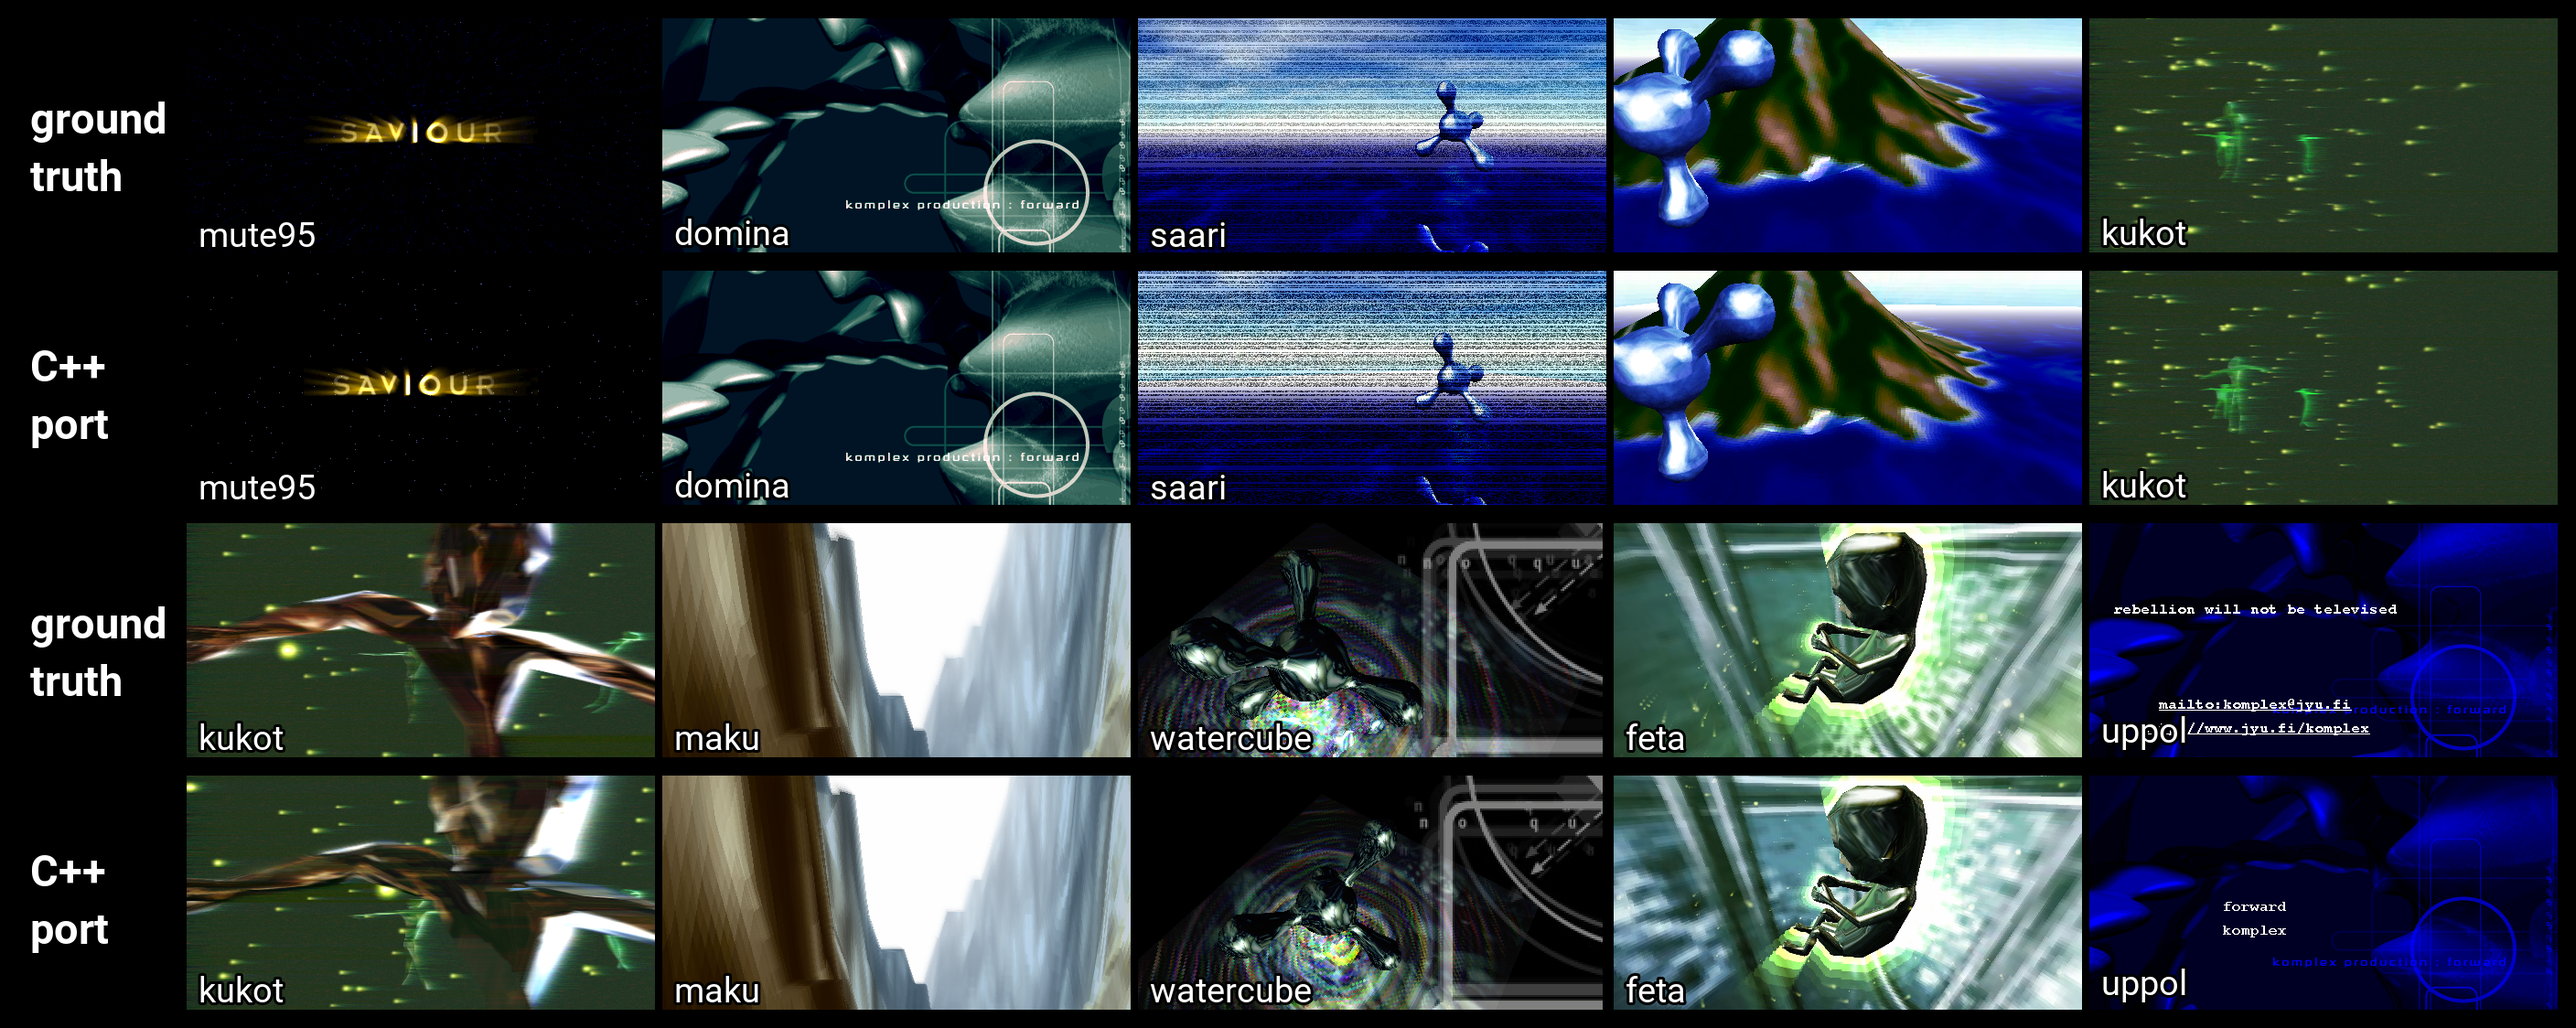
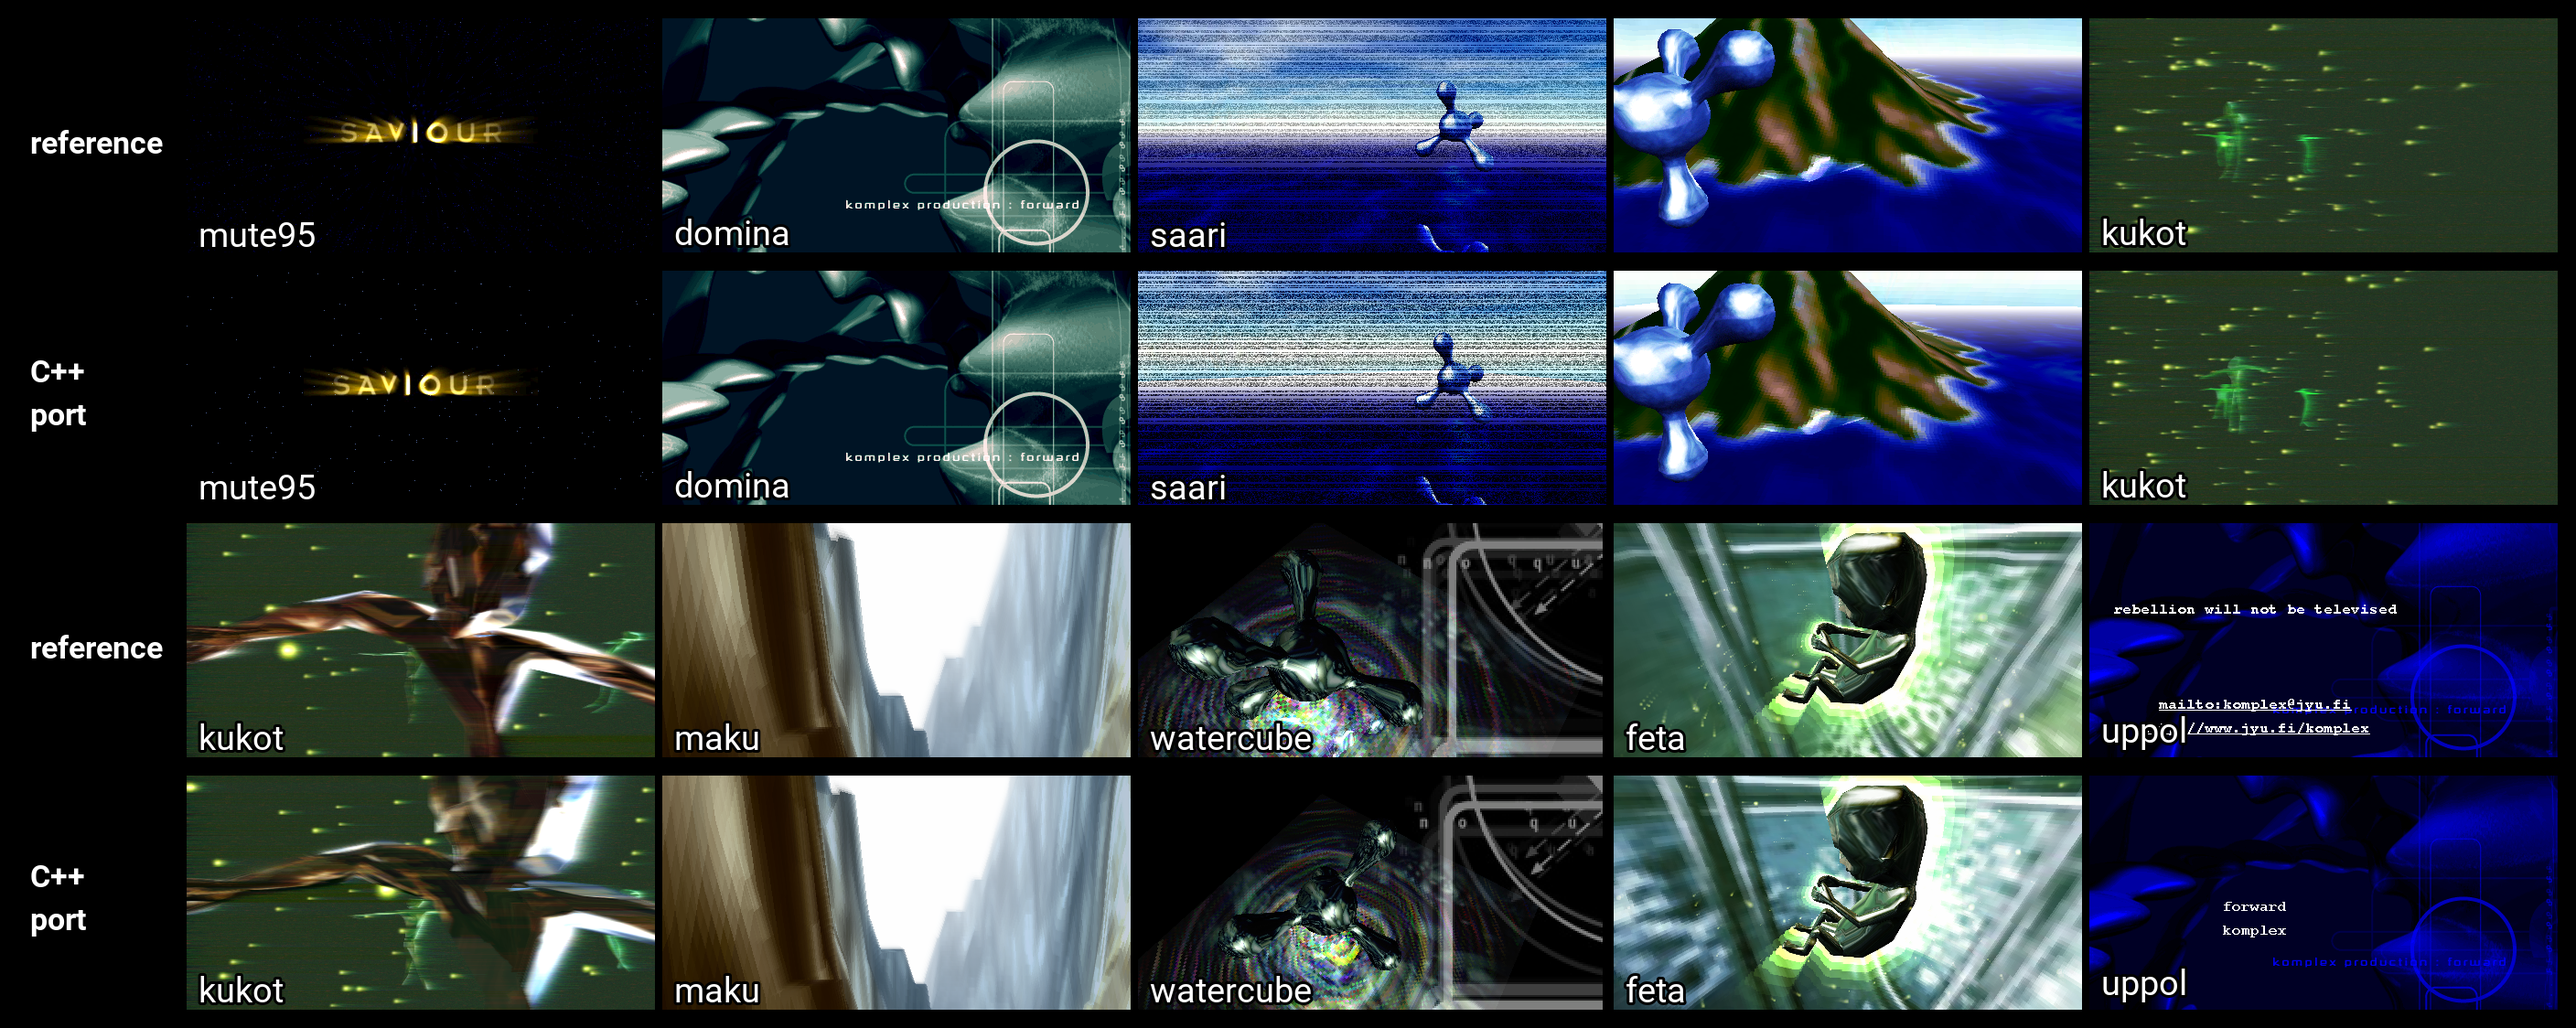
Images for documentation, python scripts update.

diff --git a/documentation/tools/slide_comparisons.py b/documentation/tools/slide_comparisons.py
@@ -1,8 +1,8 @@
-"""Shared four-pair selection for the three slide comparison scripts.
+"""Shared three-pair selection for the three slide comparison scripts.
 
 The selection is visual/editorial, based on the naive-port comparison:
 Saari loses its island, Kukot loses its metallic appearance, Maku becomes
-white, and Feta changes orientation.
+white.
 Keep the same order across all three outputs. C++ uses the nearby Maku
 reference 50 because reference 48 has no corresponding C++ capture.
 """
@@ -15,14 +15,13 @@ from pathlib import Path
 import make_cpp_port_bands as cpp
 import make_java_reconstruction_bands as java
 import make_portage_bands as naive
-from PIL import Image, ImageDraw
+from PIL import Image, ImageDraw, ImageOps
 
 
 SELECTED_KEYS = (
     "28_saari",
     "39_kukot",
     "48_maku",
-    "63_feta",
 )
 CPP_REFERENCE_SUBSTITUTIONS = {"48_maku": "50_maku"}
 OUTPUT_NAMES = {
@@ -38,46 +37,56 @@ PORT_LABELS = {
 
 
 def build_slide(pairs, variant, output, regular_font, bold_font, background, scale):
-    """Four aligned columns, preserving the original 2816:1124 canvas ratio."""
+    """Fill a 3 x 2 grid, preserving the original 2816:1124 canvas ratio.
+
+    Center-crop each capture to fill its cell without distortion. Both images
+    in a comparison use the same crop; only thin gutters remain uncovered.
+    """
     width, height = 2816 * scale, 1124 * scale
-    padding, gap = 24 * scale, 16 * scale
+    gap = 8 * scale
     columns = len(pairs)
-    # Even width preserves the captures' 2:1 aspect ratio exactly.
-    tile_width = 2 * ((width - 2 * padding - (columns - 1) * gap) // (2 * columns))
-    tile_height = tile_width // 2
-    row_width = columns * tile_width + (columns - 1) * gap
-    left = (width - row_width) // 2
-    heading_height, block_gap = 96 * scale, 36 * scale
-    content_height = 2 * (heading_height + tile_height) + block_gap
-    top = (height - content_height) // 2
-    label_margin, label_stroke = 18 * scale, 4 * scale
+    image_width = width - (columns - 1) * gap
+    tile_height = (height - gap) // 2
+    label_margin, label_stroke = 24 * scale, 5 * scale
     canvas = Image.new("RGBA", (width, height), background)
     draw = ImageDraw.Draw(canvas)
     scene_font = naive.fit_font(
         [pair.series for pair in pairs], regular_font,
-        max_size=54 * scale, min_size=24 * scale,
-        max_width=tile_width - 2 * label_margin, max_height=70 * scale,
+        max_size=68 * scale, min_size=24 * scale,
+        max_width=image_width // columns - 2 * label_margin, max_height=80 * scale,
         stroke_width=label_stroke,
     )
+    first_scene_width, _ = naive.text_bbox(scene_font, pairs[0].series, label_stroke)
     heading_font = naive.fit_font(
         ["reference", PORT_LABELS[variant]], bold_font,
-        max_size=72 * scale, min_size=24 * scale,
-        max_width=row_width, max_height=heading_height,
+        max_size=68 * scale, min_size=24 * scale,
+        max_width=image_width // columns - 3 * label_margin - first_scene_width,
+        max_height=90 * scale,
+        stroke_width=label_stroke,
     )
     comparison_field = {"naive": "naive_path", "java": "java_path", "cpp": "cpp_path"}[variant]
     for row, (label, field) in enumerate([
         ("reference", "gt_path"), (PORT_LABELS[variant], comparison_field),
     ]):
-        heading_y = top + row * (heading_height + tile_height + block_gap)
-        draw.text((left, heading_y), label, font=heading_font, fill="white", anchor="lt")
         for column, pair in enumerate(pairs):
-            tile = naive.load_and_scale(getattr(pair, field), (tile_width, tile_height))
-            x = left + column * (tile_width + gap)
-            y = heading_y + heading_height
+            x = column * gap + column * image_width // columns
+            tile_width = (column + 1) * image_width // columns - column * image_width // columns
+            y = row * (tile_height + gap)
+            with Image.open(getattr(pair, field)) as source:
+                tile = ImageOps.fit(
+                    source.convert("RGBA"), (tile_width, tile_height),
+                    method=Image.Resampling.LANCZOS, centering=(0.5, 0.5),
+                )
             canvas.alpha_composite(tile, (x, y))
+            if column == 0:
+                draw.text(
+                    (x + label_margin, y + tile_height - label_margin), label,
+                    font=heading_font, fill="white", anchor="lb",
+                    stroke_width=label_stroke, stroke_fill="black",
+                )
             draw.text(
-                (x + label_margin, y + tile_height - label_margin), pair.series,
-                font=scene_font, fill="white", anchor="lb",
+                (x + tile_width - label_margin, y + tile_height - label_margin), pair.series,
+                font=scene_font, fill="white", anchor="rb",
                 stroke_width=label_stroke, stroke_fill="black",
             )
 
@@ -87,7 +96,7 @@ def build_slide(pairs, variant, output, regular_font, bold_font, background, sca
 
 def main(variant: str) -> None:
     parser = argparse.ArgumentParser(
-        description="Build a slide comparison with four selected pairs (8 images)."
+        description="Build a slide comparison with three selected pairs (6 images)."
     )
     parser.add_argument("--figures-dir", type=Path, default=naive.DEFAULT_FIGURES_DIR)
     parser.add_argument(

diff --git a/README.md b/README.md
@@ -113,6 +113,98 @@ The detailed workflow is documented in:
 
 ## Reference Capture
 
+### Generate documentation figures
+
+The Python scripts in `documentation/tools/` assemble the source captures in
+`img/figures/` and write their PNGs to `img/figures/output/`.
+They require Python 3.10 or newer and Pillow. From the repository root:
+
+```sh
+python -m pip install -r documentation/tools/requirements.txt
+python documentation/tools/make_ground_truth_mosaic.py
+python documentation/tools/make_portage_bands.py
+python documentation/tools/make_java_reconstruction_bands.py
+python documentation/tools/make_cpp_port_bands.py
+```
+
+Each script can be run independently and replaces only its own output:
+
+| Script | Output in `img/figures/output/` |
+| --- | --- |
+| `make_ground_truth_mosaic.py` | `ground-truth-mosaic-4x3.png` |
+| `make_portage_bands.py` | `ground-truth-vs-naive-port-bands.png` |
+| `make_java_reconstruction_bands.py` | `ground-truth-vs-java-reconstruction-bands.png` |
+| `make_cpp_port_bands.py` | `ground-truth-vs-cpp-port-bands.png` |
+
+Paths are resolved relative to the scripts, so they also work when launched
+from another directory. Use `--figures-dir` and `--output` to override the
+source directory and output file, or `--help` for all options.
+
+The scripts were moved from the thesis repository's
+`obsidian/these/40_articles/JCDL/` directory. Missing naive-port and Java
+captures were copied from its `acmart-primary/figures/` directory. Java
+pairing uses the original short filenames, starting at `java_img_007694.png`;
+the older capture filenames containing timestamps sort before this starting
+point and are not used. The C++ comparison skips the two Maku references
+without corresponding C++ captures, as in the original script.
+
+Roboto Regular and Bold are included in `documentation/tools/fonts/` with their license;
+no system font installation is needed. The regenerated figures retain the
+original dimensions and image content, with slight differences in text
+rendering compared with the original macOS exports.
+
+#### Reduced comparisons for slides
+
+Three additional scripts generate three pairs (6 images), compared with ten
+pairs in the full grids. Each output keeps the original 2816 x 1124 canvas
+and its exact height/width ratio. Three references occupy the top image row,
+with their three counterparts directly below, in the same scene order across
+all three outputs. Scene names overlay the bottom-right corner of each
+capture; the reference/port labels appear once per row, overlaying the
+bottom-left corner of its first capture. Scene names use a larger 68-pixel
+font. All labels are white with a black outline; space is reserved between
+the two labels on the first capture to prevent overlap.
+The grid fills the canvas except for 8-pixel gutters. Each tile measures
+933 or 934 x 558 pixels. To fill these cells without stretching, the images
+are center-cropped horizontally (about 16% of the original width is removed,
+split equally between both sides). Both captures in each pair use the same
+crop. Watercube and Feta are omitted from this slide selection.
+
+```sh
+python documentation/tools/make_portage_bands_slides.py
+python documentation/tools/make_java_reconstruction_bands_slides.py
+python documentation/tools/make_cpp_port_bands_slides.py
+```
+
+The corresponding outputs in `img/figures/output/` are:
+
+- `reference-vs-naive-port-bands-slides.png`
+- `reference-vs-java-reconstruction-bands-slides.png`
+- `reference-vs-cpp-port-bands-slides.png`
+
+The shared selection in `documentation/tools/slide_comparisons.py` was made
+by inspecting visible differences in the naive-port grid, not by scoring
+the Java or final C++ results:
+
+| Reference | Visible difference in the naive port |
+| --- | --- |
+| `28_saari` | Missing island and different object appearance |
+| `39_kukot` | Loss of metallic shading on the foreground figure |
+| `48_maku` | White frame instead of the canyon |
+
+Java uses these exact references and its existing corresponding captures.
+C++ uses the same references except for Maku: `50_maku` paired with
+`cpp_img_011202.png` is the nearby view already used in the full C++ grid;
+there is no C++ counterpart for `48_maku`.
+
+The visible row label is now `reference` in both the full and reduced grids.
+The full grids retain their existing filenames and ten-pair selection.
+The slide scripts also accept `--figures-dir`, `--output`, `--font`,
+`--background`, and `--scale` (a positive integer resolution multiplier that
+preserves the exact canvas ratio).
+
+### Capture the running demo
+
 The desktop build can now capture itself to PNG through `key value` parameters.
 
 Example:
